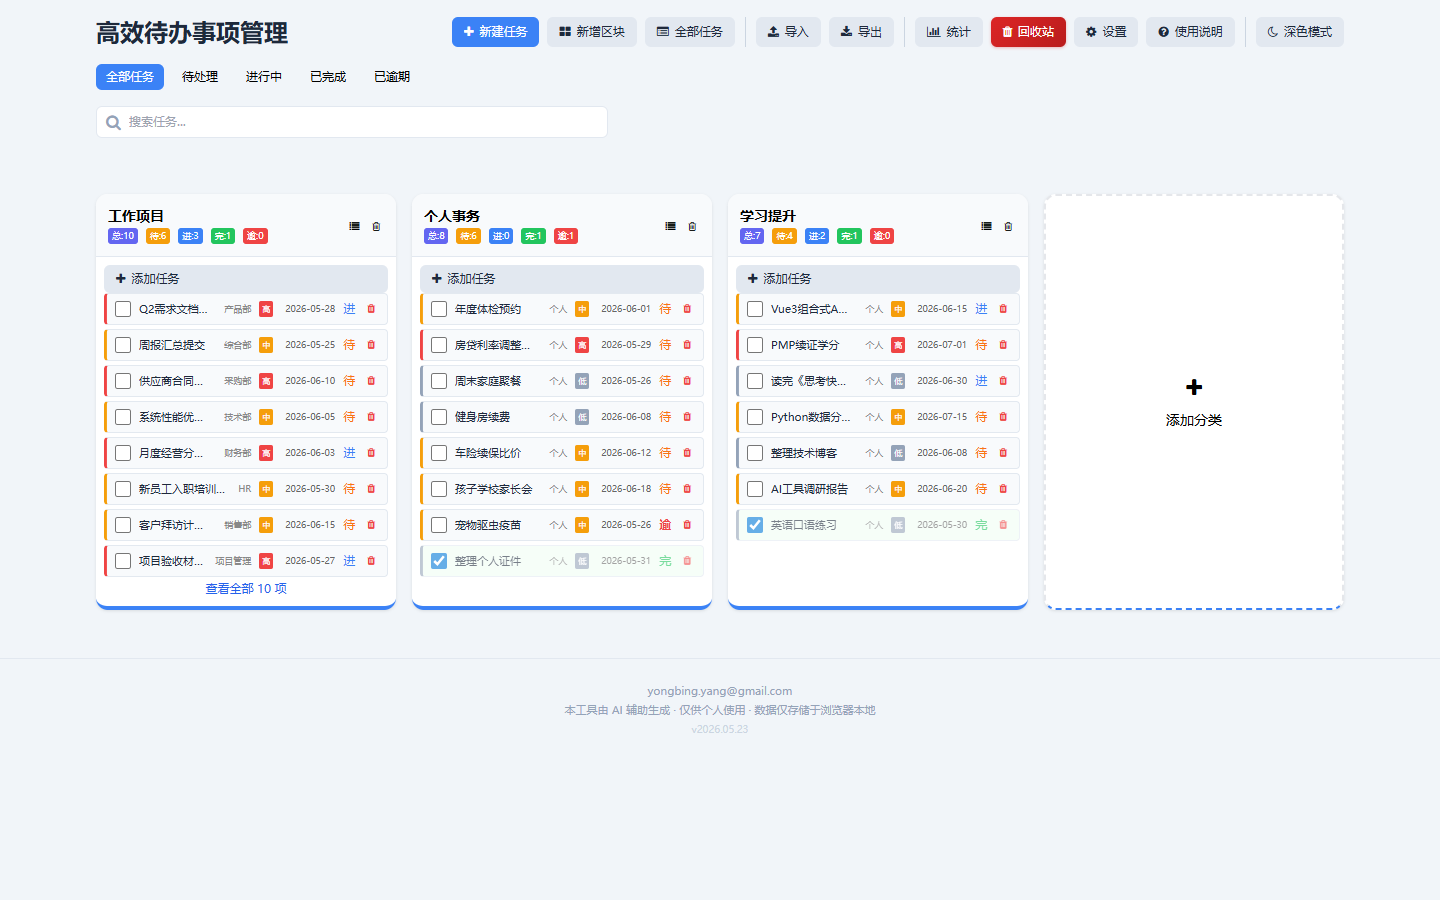
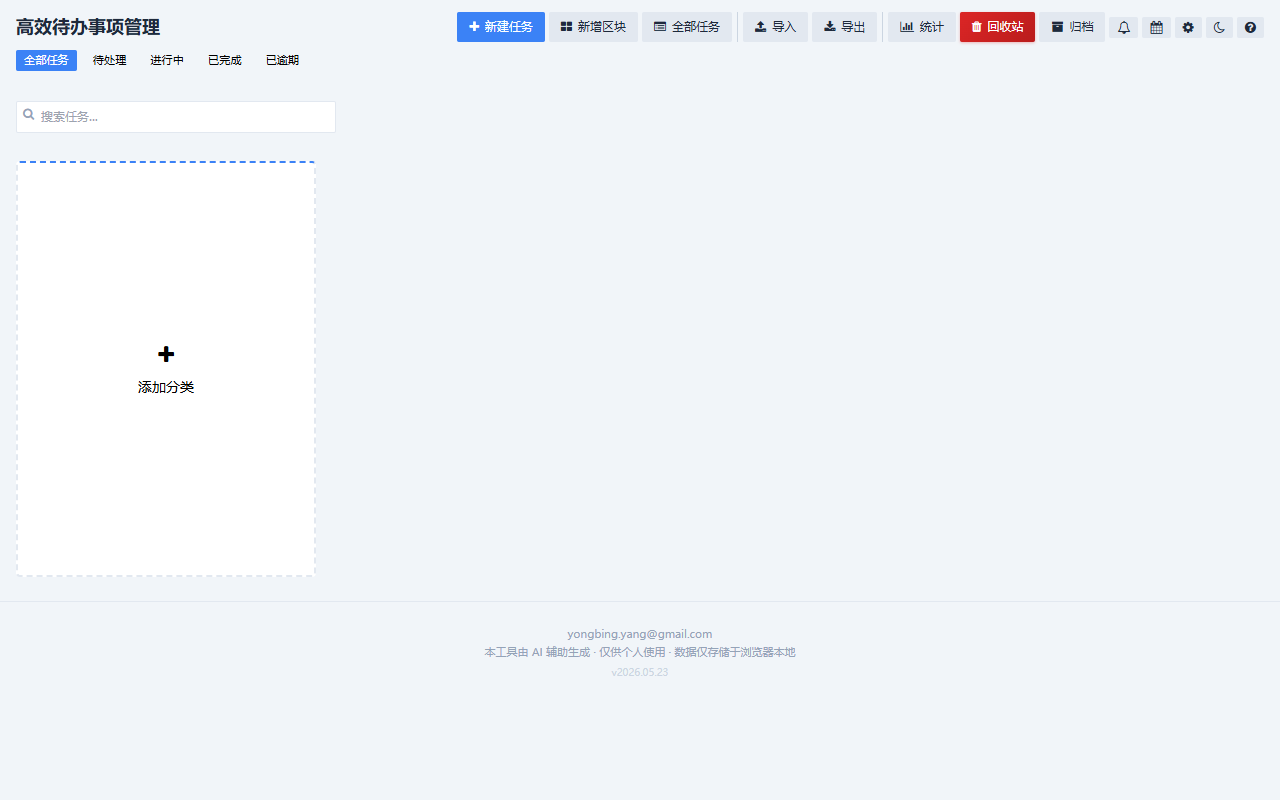
chore: 更新测试数据+截图+README v2.0

diff --git a/README.md b/README.md
@@ -46,8 +46,6 @@
 |----------|----------|
 | ![深色模式](应用截图/05-深色模式.png) | ![设置面板](应用截图/06-设置面板.png) |
 
-> ⚠ 截图可能未及时更新至最新版本，实际界面以浏览器打开为准。
-
 ---
 
 ## 🚀 快速开始
